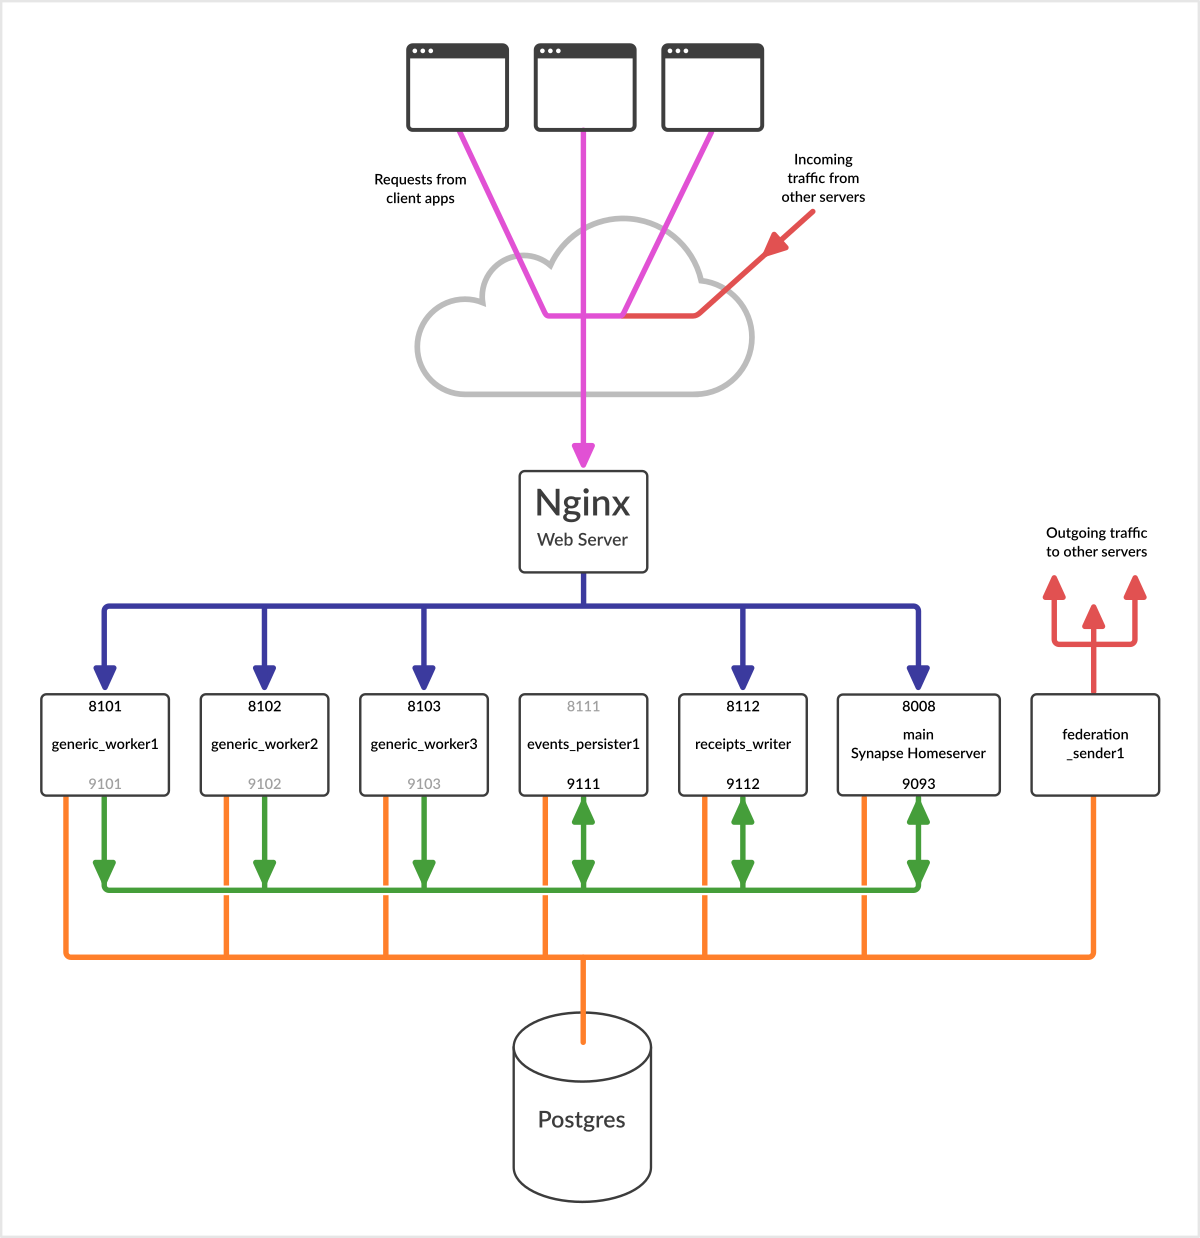
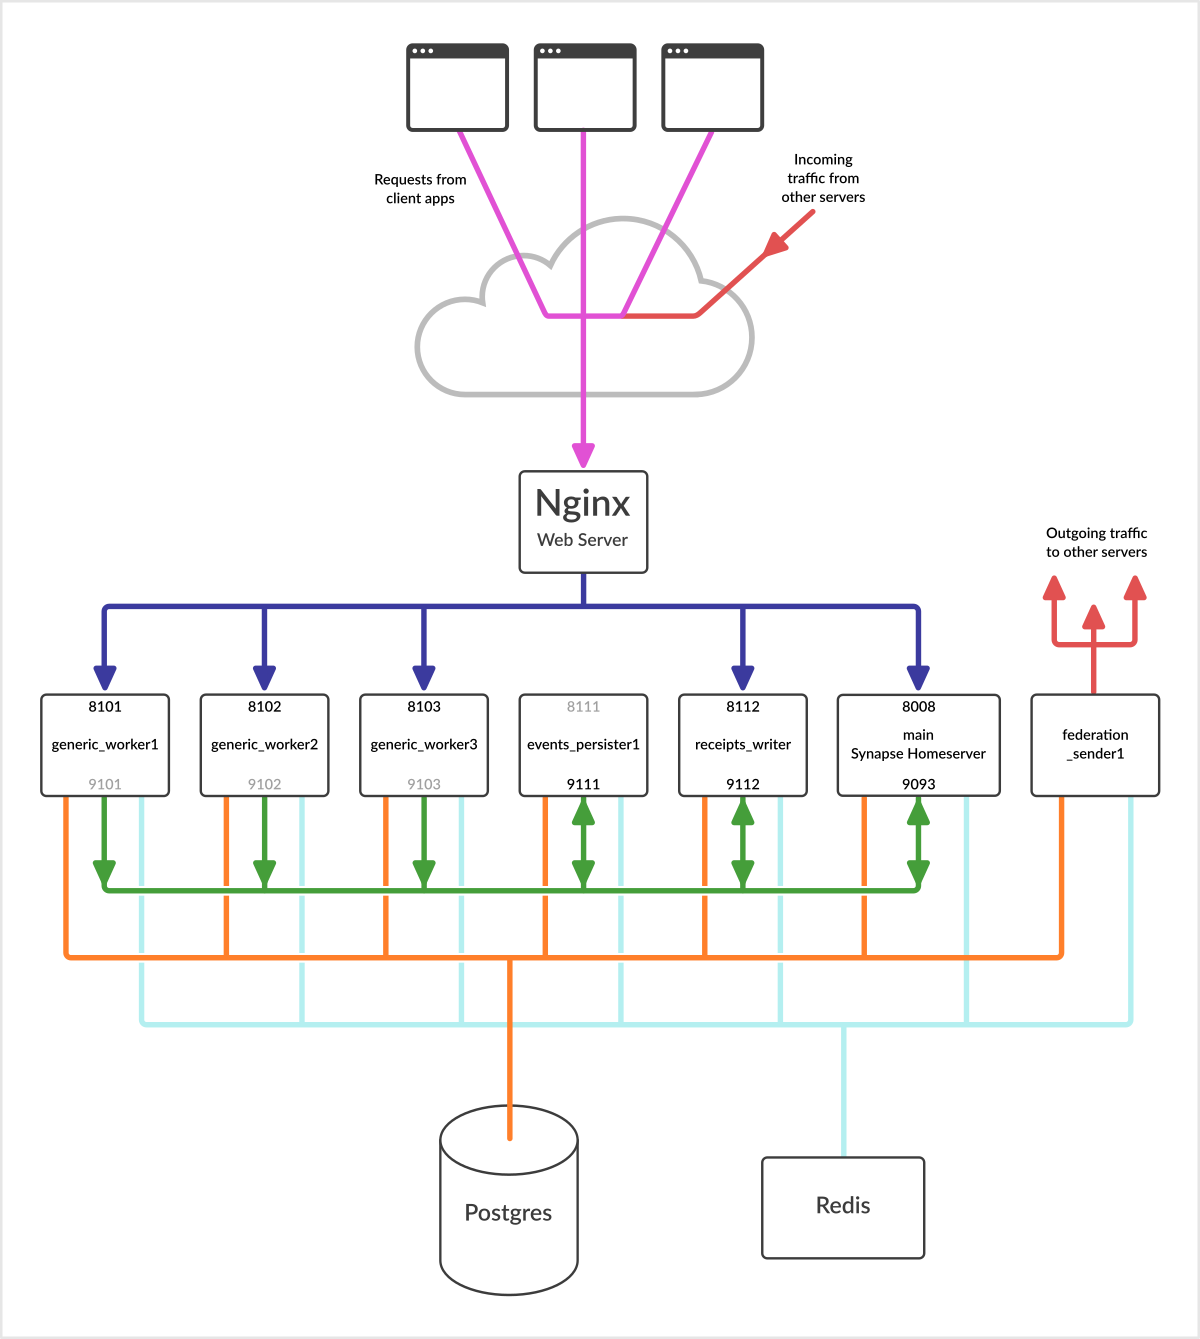
update picture to include Redis

diff --git a/README.md b/README.md
@@ -22,43 +22,120 @@ The main homeserver process is supplemented with six worker processes:
   `typing` stream
 - 1 federation sender to handle outgoing traffic to other servers
 
-The Nginx server is configured to proxy requests though to different workers or
-to the main process based on pattern matching the URL path of the request.
+Incoming requests from clients (red) and other Matrix servers (purple) are
+received over HTTPS by Nginx.
+
+The Nginx server proxies the requests (blue) over HTTP to different worker
+processes running on the local host (although potentially you could split the
+workload over multiple hosts).
 
 Each worker might be listening on a port in the 8xxx range for requests
-received via Nginx.  In this example, the `events_persister1` worker has a port
-allocation of 8111 that is greyed out in the diagram because this worker is not
-set up to handle any requests from Nginx and isn't actually listening on that
-port.
+received via Nginx (blue).  In this example, the `events_persister1` worker has
+a port allocation of 8111 that is greyed out in the diagram because this worker
+is not set up to handle any requests from Nginx and isn't actually listening on
+that port.
 
-Additionally, each worker might listen on another port in the 9xxx range for
-"replication" requests from other workers.  The `generic_worker`s in the diagram
-have these ports greyed out because they are not set up to handle any requests
-from other workers.
+Additionally, each worker might listen on another port in the 9xxx range
+(green) for "replication" requests from other workers.  The `generic_worker`s
+in the diagram have these ports greyed out because they are not set up to
+listen for requests from other workers.
+
+All workers can communicate directly with Postgres (orange) and Redis (cyan).
+Certain database writes are handled by so-called "stream writers".
+
+The federation sender handles outgoing traffic by making requests over HTTPS to
+other matrix servers.
 
 Note these port ranges are completely arbitrary - you can choose port numbers
 that work for you.  It's important to remember that the worker replication ports
 (the 9xxx ones in my example) should never be exposed via Nginx and should only
 accept connections from other local workers.
 
-A worker would refer to the [`stream_writers`][stream-writers-docs]
-configuration (in [`homeserver.yaml`][homeserver-yaml]) to determine which
-worker is responsible for handling a particular stream.  Then it would refer to
-the [`instance_map`][instance-map-docs] configuration (also in
-[`homeserver.yaml`][homeserver-yaml]) to determine which port number the named
-worker is listening on.  A worker knows which port to listen on based on the
-individual worker config file - so the port number listed in the worker config
-must match the port number in the `instance_map`.
-
 In this repo you'll find:
 
 - a fairly complete [homeserver.yaml](etc/matrix-synapse/homeserver.yaml)
 - a set of [config files for workers](etc/matrix-synapse/workers)
-- a set pf [systemd unit files](etc/systemd/system) for managing the main and
+- a set of [systemd unit files](etc/systemd/system) for managing the main and
   worker processes
 - an [Nginx config](etc/nginx/nginx.conf) for mapping requests to worker ports
   based on the request URL path
 
+## `homeserver.yaml`
+
+The key section is:
+
+```
+instance_map:
+  main:
+    host: localhost
+    port: 9093
+  events_persister1:
+    host: localhost
+    port: 9111
+  receipts_writer:
+    host: localhost
+    port: 9112
+federation_sender_instances:
+    - federation_sender1
+stream_writers:
+  events:
+    - events_persister1
+  receipts: receipts_writer
+  typing: receipts_writer
+```
+
+A worker would refer to the [`stream_writers`][stream-writers-docs]
+configuration (in [`homeserver.yaml`][homeserver-yaml]) to determine which
+worker is responsible for handling a particular stream.  Then it would refer to
+the [`instance_map`][instance-map-docs] configuration to determine which port
+number the named worker is listening on.  A worker knows which port to listen
+on based on the individual worker config file - so the port number listed in
+the worker config must match the port number in the `instance_map`.  The first
+`instance_map` entry "main" is the synapse homeserver process.
+
+The `generic_worker`s are not listed in the instance map, since they are not
+listening on a replication port.
+
+Similarly, the `federation_sender` does not use a replication port, but it must
+be listed under [`federation_sender_instances`][fed-send-inst-docs], which
+allows you to list multiple sender instances to share the outgoing traffic load.
+
+## Systemd unit files
+
+Reference docs: [Setting up Synapse with Workers and Systemd][systemd-workers-docs].
+
+It has been pointed out that the setup in this repo, with one unit file per
+worker type, is overly complex.  In practice the only difference is the worker
+name and that can be factored out to the part of the service name after the
+`@`.
+
+The full set of processes can be restarted with:
+
+```
+systemctl restart matrix-synapse.target
+```
+
+## Nginx Config
+
+The Nginx config here routes each incoming request to a specific "upstream"
+based on the URL path of each request.  The "upstreams" named in the sample
+Nginx config are:
+
+- `synapse` goes directly to the main home server process. This is the default
+  upstream, so any URL path not mentioned will go here.  Some paths are routed
+  to this upstream specifically, to document the fact that they cannot be handled
+  by the `generic_worker`s.
+
+- `generic-worker` load balances requests across the three `generic_worker`
+  processes, with requests from the same source IP having affinity for a
+  specific worker.
+
+- `generic-worker-user` load balances requests across the three
+  `generic_worker` processes, with requests from the same user session having
+  affinity for a specific worker.
+
+This config gets the URL paths from [the worker docs][worker-url-docs], which
+also contain suggestions on affinity for improved caching of some paths.
 
 [synapse-repo]: https://github.com/matrix-org/synapse/
 [workers-docs]: https://matrix-org.github.io/synapse/latest/workers.html
@@ -67,3 +144,6 @@ In this repo you'll find:
 [stream-writers-docs]: https://matrix-org.github.io/synapse/latest/usage/configuration/config_documentation.html?highlight=stream_writers#stream_writers
 [homeserver-yaml]: etc/matrix-synapse/homeserver.yaml
 [instance-map-docs]: https://matrix-org.github.io/synapse/latest/usage/configuration/config_documentation.html?highlight=instance_map#instance_map
+[fed-send-inst-docs]: https://matrix-org.github.io/synapse/latest/usage/configuration/config_documentation.html?highlight=federation_sender_instances#federation_sender_instances
+[systemd-workers-docs]: https://github.com/matrix-org/synapse/tree/develop/docs/systemd-with-workers
+[worker-url-docs]: https://matrix-org.github.io/synapse/latest/workers.html#available-worker-applications
